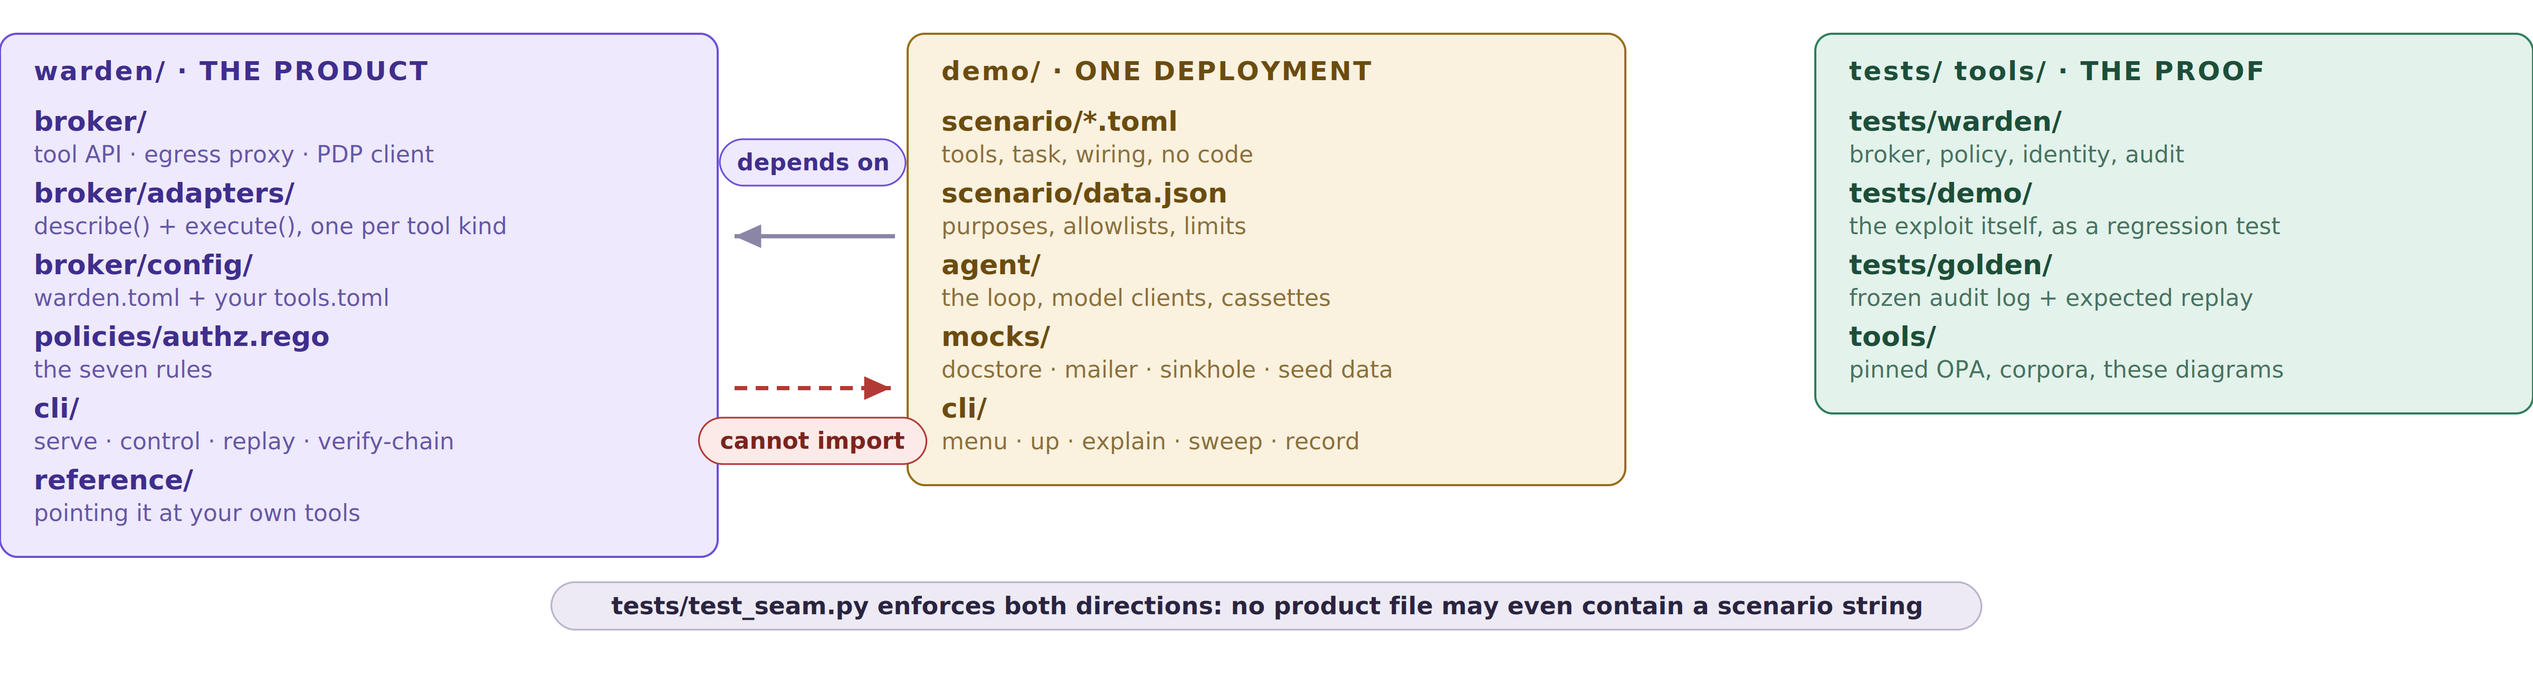
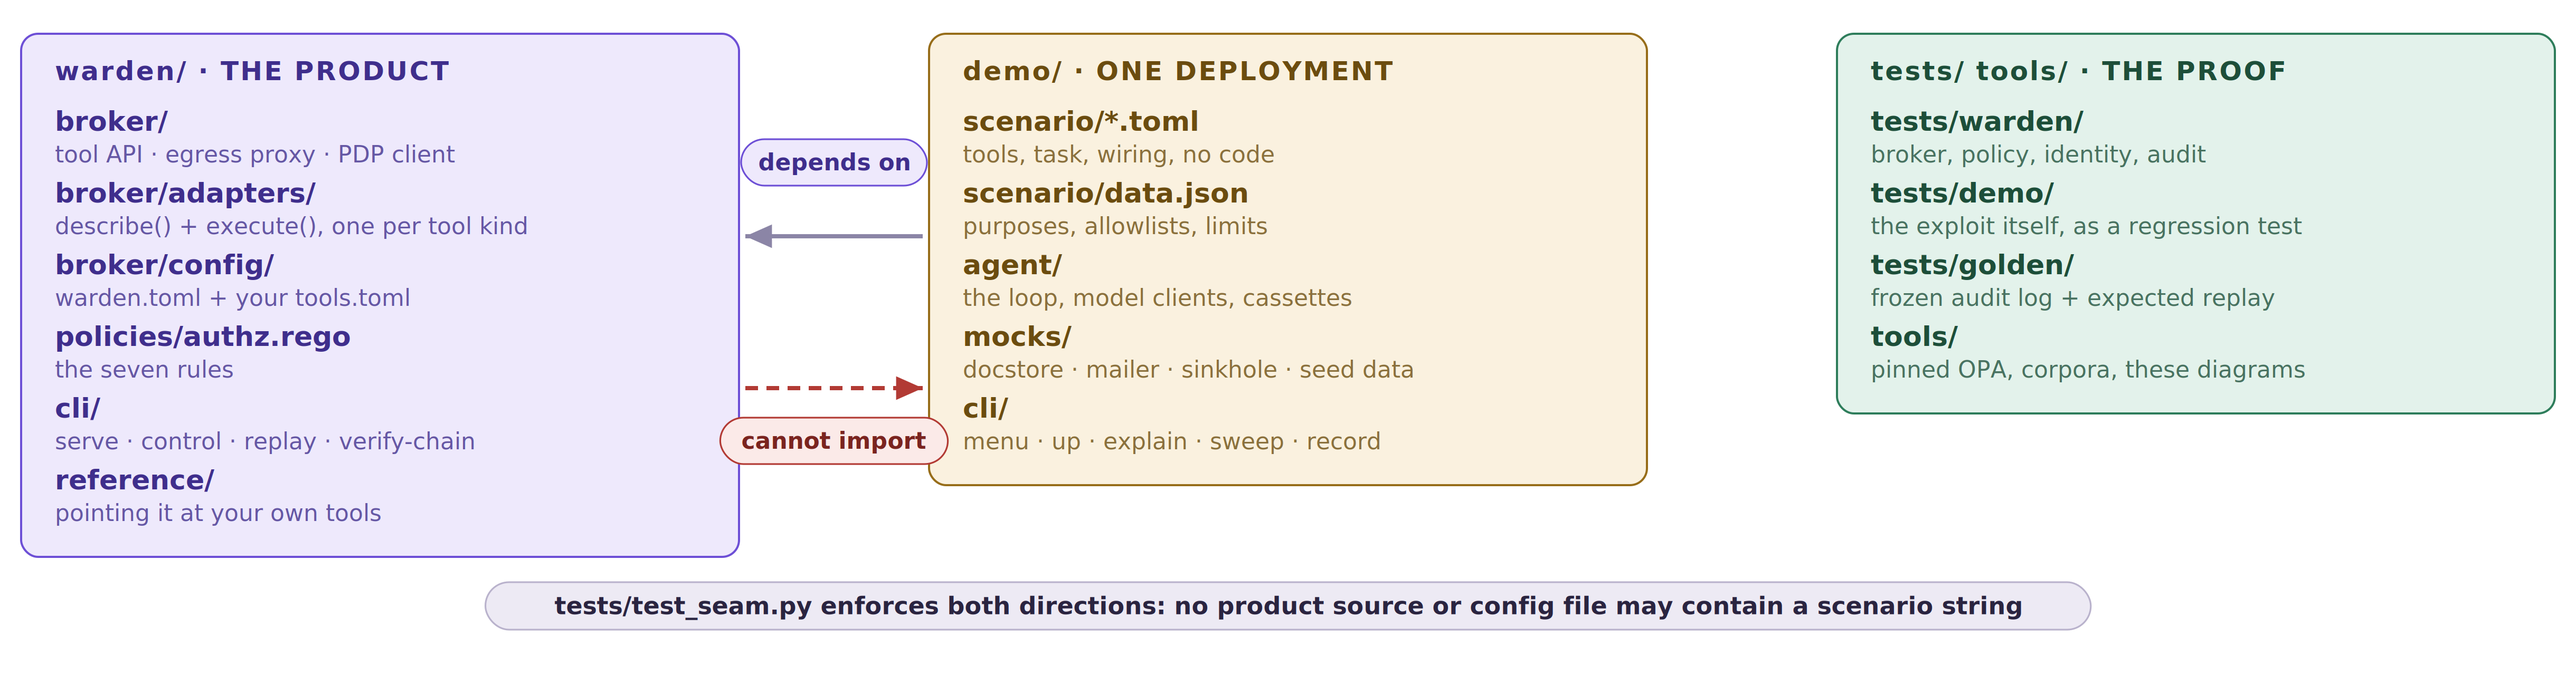
docs: draw the strokes the export was halving, and pill the last bare caption
Four rendering defects, all visible only at full size or on a dark page,
which is where an interviewer opens them.

The seven scenario strips and the three step-card figures lay their content
out from x=0, so the outermost card borders and the title pills' rounded caps
were bisected by the canvas edge: in stop-notify.png the agent box's left
border occupied x=0-1 where every interior border is 4px wide. The viewBox
now starts at -10 with 20px of extra width, so the geometry is untouched and
the strokes render whole. Same for repo-map.

The integration caption was the one piece of text in the set drawn on raw
transparency -- brick red at roughly 3.2:1 against GitHub's #0d1117, against
a set where every other label sits on a filled shape. _chip's docstring
already explains why no single ink can clear 4.5:1 on both themes, and the
answer everywhere else is a pill. note() takes a `pill` tone now and the two
bare captions (integration's deny line, trust-boundaries' "no route to the
minter") use it. fit() accounts for the taller shape so nothing clips.

The repo map's gutter arrows were asymmetric -- the gray head stopped 35px
short of its border while its tail touched, the dashed red head stopped 30px
short at the other end -- which reads as two detached arrows rather than one
deliberate style. Both now stop 3px from each border.

Two labels contradicted the code they describe. The deployment panel was
headed "3 processes" and listed four things to run, of which serve and
[…]

diff --git a/tools/render_diagrams.py b/tools/render_diagrams.py
@@ -151,8 +151,12 @@ class Diagram:
         self.zones.append(z)
         return z
 
-    def note(self, x, y, text, colour, anchor="middle", size=10.5):
-        self.notes.append((x, y, text, colour, anchor, size))
+    def note(self, x, y, text, colour, anchor="middle", size=10.5, pill=None):
+        """`pill` names a ZONE tone: the note is then drawn on an opaque pill
+        (y becomes the pill's top edge) instead of as bare text, which no
+        single ink can make readable on both white and GitHub's dark page —
+        see _chip's docstring for the arithmetic."""
+        self.notes.append((x, y, text, colour, anchor, size, pill))
 
     def fit(self, margin=20):
         """Size the canvas to its contents.
@@ -163,7 +167,8 @@ class Diagram:
         """
         xs = [b.right for b in self.boxes] + [z.right for z in self.zones]
         ys = [b.bottom for b in self.boxes] + [z.bottom for z in self.zones]
-        ys += [y + 6 for _, y, *_ in self.notes]
+        ys += [y + (size + 11 if pill else 6)
+               for _, y, _, _, _, size, pill in self.notes]
         for e in self.edges:
             xs += [p[0] for p in e["pts"]]
             ys += [p[1] for p in e["pts"]]
@@ -356,9 +361,13 @@ class Diagram:
         body += [self._draw_edge(e) for e in self.edges]
         body += [self._draw_box(b) for b in self.boxes]
         body += [self._draw_zone_label(z) for z in self.zones]
-        for x, y, text, colour, anchor, size in self.notes:
-            body.append(f'<text x="{x}" y="{y}" fill="{colour}" font-family="{MONO}" '
-                        f'font-size="{size}" text-anchor="{anchor}">{esc(text)}</text>')
+        for x, y, text, colour, anchor, size, pill in self.notes:
+            if pill:
+                body.append(_chip(x, y, text, size, ZONE[pill],
+                                  anchor_left=(anchor == "start")))
+            else:
+                body.append(f'<text x="{x}" y="{y}" fill="{colour}" font-family="{MONO}" '
+                            f'font-size="{size}" text-anchor="{anchor}">{esc(text)}</text>')
         return (
             f'<svg xmlns="http://www.w3.org/2000/svg" viewBox="0 0 {self.w} {self.h}" '
             f'width="{self.w}" height="{self.h}" role="img" aria-label="{esc(self.title)}">'
@@ -487,7 +496,7 @@ def trust():
     d.zone("TRUSTED ENFORCEMENT · warden broker", "enforce", [broker, pdp, aud])
 
     mint = d.box(468, 400, 332, 44, ["broker-control · private key"], "control")
-    d.zone("CONTROL PLANE · backend-net only", "control", [mint])
+    d.zone("CONTROL PLANE · no route from agent-net", "control", [mint])
 
     db = d.box(880, 76, 142, 44, ["customers.db"], "target", "store")
     intern = d.box(880, 146, 142, 44, ["docstore", "mailer"], "target")
@@ -517,7 +526,8 @@ def trust():
             src=mint, dst=agent, label="5-minute task token", label_t=0.85)
     d.route([(agent.right - 46, agent.bottom), (agent.right - 46, 350), (mint.x - 30, 350)],
             src=agent, kind="forbidden")
-    d.note(agent.right - 38, 338, "no route to the minter", FORBIDDEN, anchor="start")
+    d.note(agent.right - 38, 320, "no route to the minter", FORBIDDEN,
+           anchor="start", size=10.5, pill="untrusted")
     d.fit()
     return d
 
@@ -625,8 +635,8 @@ def integration():
             src=gate, dst=sysb, label="allow")
     d.route([gate.at("right"), (780, gate.cy), (780, net.cy), (net.x, net.cy)],
             src=gate, dst=net, label="allow")
-    d.note(500, 262, "deny → 403 + X-Warden-Rule, and the decision is recorded either way",
-           FORBIDDEN)
+    d.note(500, 252, "deny → 403 + X-Warden-Rule, and the decision is recorded either way",
+           FORBIDDEN, size=11, pill="untrusted")
     d.fit()
     return d
 
@@ -777,7 +787,11 @@ def _strip(title, rule, ask_icon, ask_head, ask_sub, got_head, got_sub, note):
     # above the gate where it was unreadable on a dark page.
     body.append(_chip(W / 2, top + ch + 14, f"{rule} · {note}", 12, ZONE["enforce"]))
 
-    return (f'<svg xmlns="http://www.w3.org/2000/svg" viewBox="0 0 {W} {H}" width="{W}" '
+    # The viewBox starts left of 0 so the outermost card borders and the
+    # title pill's rounded cap render whole instead of being halved by the
+    # canvas edge — the content itself is laid out from x=0.
+    return (f'<svg xmlns="http://www.w3.org/2000/svg" viewBox="-10 0 {W + 20} {H}" '
+            f'width="{W + 20}" '
             f'height="{H}" role="img" aria-label="{esc(title)}: {esc(ask_head)}, '
             f'{esc(ask_sub)}; {esc(rule)} gives {esc(got_head)}, {esc(got_sub)}">'
             f'<title>{esc(title)}</title><defs>'
@@ -912,19 +926,22 @@ def repo_map():
     # The seam, drawn in the gap between the first two columns.
     mid = x1 + cw + gap / 2
     y_dep, y_no = top + 96, top + 168
-    body.append(f'<path d="M{x2-6},{y_dep} L{x1+cw+8},{y_dep}" fill="none" stroke="{LINE}" '
+    # Both arrows span the gutter symmetrically: tail and arrowhead each stop
+    # 3px from a column border, so neither end reads as detached.
+    body.append(f'<path d="M{x2-3},{y_dep} L{x1+cw+3},{y_dep}" fill="none" stroke="{LINE}" '
                 f'stroke-width="2" marker-end="url(#arrow)"/>')
-    body.append(f'<path d="M{x1+cw+8},{y_no} L{x2-8},{y_no}" fill="none" stroke="{FORBIDDEN}" '
+    body.append(f'<path d="M{x1+cw+3},{y_no} L{x2-3},{y_no}" fill="none" stroke="{FORBIDDEN}" '
                 f'stroke-width="2" stroke-dasharray="6 4" marker-end="url(#arrowbad)"/>')
     body.append(_chip(mid, y_dep - 46, "depends on", 11, ZONE["enforce"]))
     body.append(_chip(mid, y_no + 14, "cannot import", 11, ZONE["untrusted"]))
 
     h = max(ha, hb, hc) + top
     body.append(_chip(W / 2, h + 12,
-                      "tests/test_seam.py enforces both directions: no product file may "
-                      "even contain a scenario string", 11.5, TITLE_CHIP))
+                      "tests/test_seam.py enforces both directions: no product source or "
+                      "config file may contain a scenario string", 11.5, TITLE_CHIP))
     H = h + 56
-    return (f'<svg xmlns="http://www.w3.org/2000/svg" viewBox="0 0 {W} {H}" width="{W}" '
+    return (f'<svg xmlns="http://www.w3.org/2000/svg" viewBox="-10 0 {W + 20} {H}" '
+            f'width="{W + 20}" '
             f'height="{H}" role="img" aria-label="Repository map: warden is the product, '
             f'demo is one deployment that depends on it, and the product cannot import the '
             f'demo, enforced by tests/test_seam.py">'
@@ -1016,7 +1033,10 @@ def _step_cards(title, steps, aria, doc_title):
                         f'stroke="{LINE}" stroke-width="2" marker-end="url(#arrow)"/>')
 
     H = top + len(steps) * (chh + gap) + 6
-    return (f'<svg xmlns="http://www.w3.org/2000/svg" viewBox="0 0 {W} {H}" width="{W}" '
+    # viewBox starts left of 0 for the same reason _strip's does: the title
+    # pill is laid out flush at x=0 and its rounded cap needs room to render.
+    return (f'<svg xmlns="http://www.w3.org/2000/svg" viewBox="-10 0 {W + 20} {H}" '
+            f'width="{W + 20}" '
             f'height="{H}" role="img" aria-label="{esc(aria)}">'
             f'<title>{esc(doc_title)}</title><defs>'
             f'<marker id="arrow" viewBox="0 0 10 10" refX="9" refY="5" markerWidth="7" '
@@ -1106,7 +1126,7 @@ def deployment():
             ["warden.toml · control.toml", "where things listen and live"],
             ["tools.toml · data.json", "one block per tool", "your hosts and limits"],
         ]),
-        ("YOU RUN THESE · 3 processes", "target", 740, [
+        ("YOU RUN THESE · 4 processes", "target", 740, [
             ["OPA", "evaluates the rules"],
             ["warden serve", "warden control"],
             ["your agent, unchanged", "BROKER_URL + HTTP_PROXY"],
@@ -1179,7 +1199,7 @@ def adapter_split():
 
 def adapters():
     return _step_cards(
-        "one tool, from the three lines you write to the query that runs",
+        "one tool, from the three stanzas you write to the query that runs",
         ADAPTER_STEPS,
         "Five steps. You name the tool and pick one of warden's four adapters "
         "with kind = sql; you give the binding that reaches your own system, "
